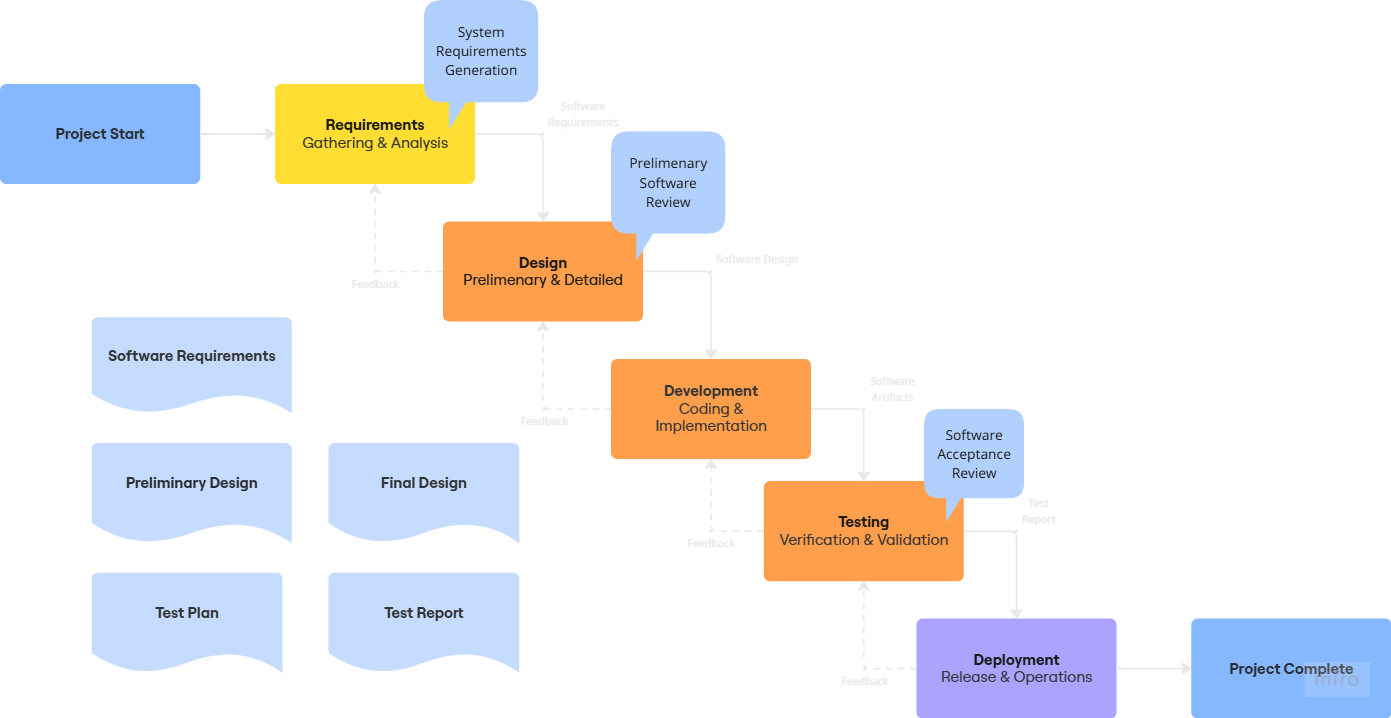
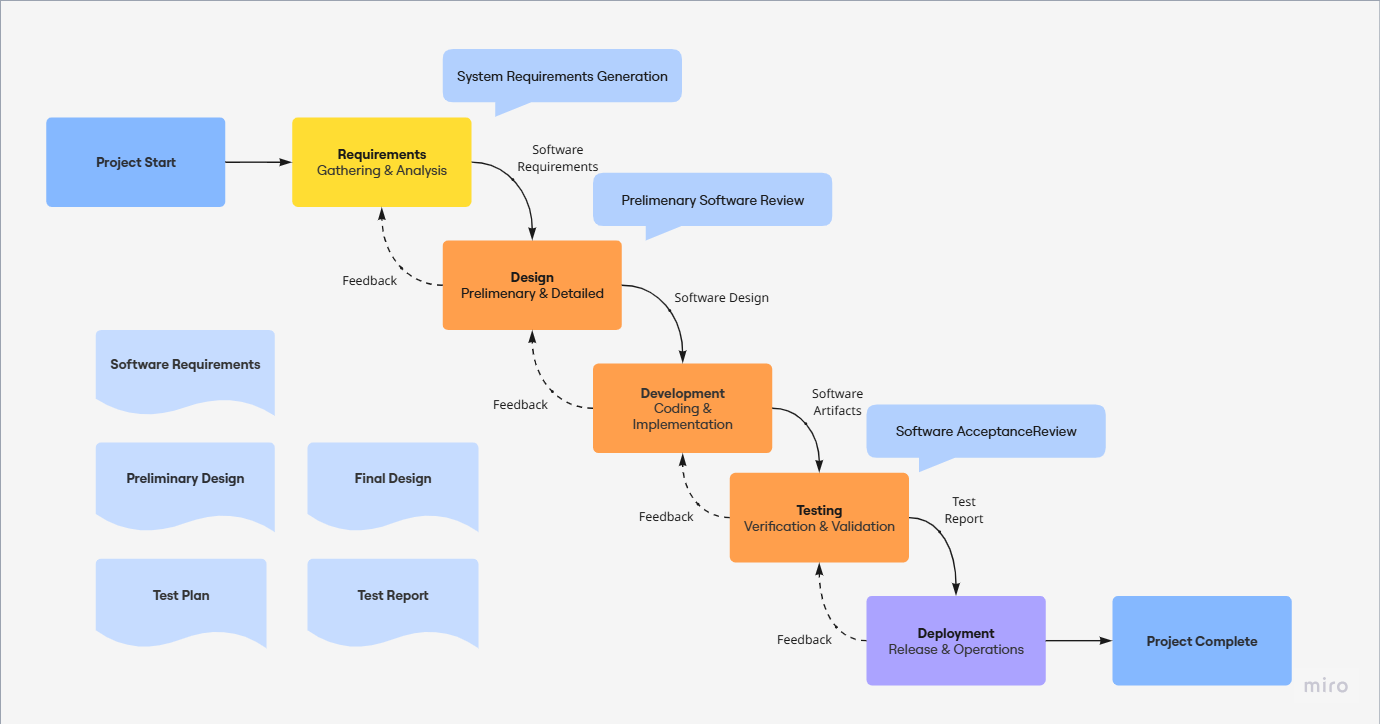
refactor: enhance clarity and detail in Agile methodology article (#7)
* refactor: enhance clarity and detail in Agile methodology article

* feat: add comprehensive comparison of Lean, Waterfall, and Agile methodologies

* fix: update images for Waterfall methodology and value stream map

* feat: add GitHub Actions workflow for testing site

diff --git a/_posts/2025-12-10-agile-methodology.md b/_posts/2025-12-10-agile-methodology.md
@@ -3,87 +3,98 @@ title: "Agile Methodology: Embracing Change Through Iterative Development"
 date: 2025-12-10 00:00:01 +0200
 categories: Project Management
 tags: agile methodology scrum kanban iterative-development agile-manifesto sprints
+image:
+  path: /assets/img/title/title-agile-methodology.png
+  alt: Agile Methodology
+  width: 1200
+  height: 630
 ---
 
 ![Agile Methodology](/assets/img/title/title-agile-methodology.png)
 
-Over time, the Waterfall model became the primary methodology for the majority of software projects. Focus on steps that secure production flow but do not add actual value to the final product brought more complexity than benefits to developers' lives. Huge volumes of documentation helped to keep the process of software development under control, but eventually slowed it down and made any changes in initial requirements everyone's problem.
+Over time, the Waterfall model became the primary methodology for the majority of software projects. Focus on steps that secure production flow and do not add actual value to the final product brought more complexity than benefits to developers' lives. Huge volumes of documentation helped to keep the process under control, but eventually slowed it down and made any changes in priorities or initial requirements everyone's problem.
 
-Agile emerged in the early 2000s as a response to the limitations of traditional methodologies like Waterfall. The new methodology of Agile Software Development was built around four core values:
+Agile emerged in the early 2000s in response to the fact that about one third of all companies' profits came from new products. This fact pushed organizations to focus on delivering new products as quickly as possible, adapt to changing requirements, and adjust priorities dynamically.
 
-- **Individuals and interactions** over processes and tools
-- **Working software** over comprehensive documentation
-- **Customer collaboration** over contract negotiation
-- **Responding to change** over following a plan
+The new methodology of Agile Software Development was built around four core values:
 
-In comparison with previous methodologies, we are not trying to optimize production flow but allow industry experts to adapt quickly and decide what is necessary to deliver working software.
+> - **Individuals and interactions** over processes and tools
+> - **Working software** over comprehensive documentation
+> - **Customer collaboration** over contract negotiation
+> - **Responding to change** over following a plan
+
+In comparison with previous methodologies, it does not aim to optimize production flow or lock in initial requirements. Instead, it assumes that the business environment is constantly changing: project priorities and goals can change on the go, new technologies may reshape the market at any time, and organizations must continuously release innovative solutions. This is achieved by allowing industry experts to lead projects, collaborate directly with customers, decide what is necessary to deliver working software, and re-prioritize work to changing requirements. Self-organizing teams have become the mainstream model, where frequent collaboration and overlapping development phases help maximize results in achieving established goals.
+
+Another distinguishing feature of Agile is the repetition of the same waterfall steps within smaller, time-boxed cycles. Instead of implementing the entire project at once, teams focus on delivering a number of prioritized features. They perform the same steps on a smaller scope of work, release a portion of application functionality, and receive feedback much earlier incorporating new demands and ideas, which increases the value of a solution. Splitting the work into smaller pieces allows teams to adjust priorities to address customer needs each time a new development cycle begins. 
 
 ## Core Principles
 
-Agile expands some of the best practices from both previous methodologies by adapting them to even more rapidly changing customer needs. This results in twelve guiding principles.
+Agile expands on Waterfall and Lean best practices by adapting them to rapidly changing market needs and a cross-functional team model. This expansion results in twelve guiding principles that describe key priorities without prescribing specific practices or rituals for how Agile should be implemented within a team. 
 
-1. **Our highest priority is to satisfy the customer through early and continuous delivery of valuable software.**
-2. **Welcome changing requirements, even late in development. Agile processes harness change for the customer's competitive advantage.**
-3. **Deliver working software frequently, from a couple of weeks to a couple of months, with a preference to the shorter timescale.**
+> 1. **Our highest priority is to satisfy the customer through early and continuous delivery of valuable software.**
+> 2. **Welcome changing requirements, even late in development. Agile processes harness change for the customer's competitive advantage.**
+> 3. **Deliver working software frequently, from a couple of weeks to a couple of months, with a preference to the shorter timescale.**
 
-The major idea is to replace a monolithic solution with a series of short iterative cycles. Smaller release patches of valuable software help us to receive customer feedback faster and on a constant basis. With these principles we focus on what is important to the customer right now. We plan our sprint according to these values and once priorities change we adjust to them in the next sprint. There is no room for a long-running development of a complex project—make it simple, do it fast, and release frequently.
+The main idea here is to replace a monolithic solution with a series of short, iterative cycles. Small, frequent releases of valuable software allow teams to receive customer feedback quickly and continuously. These principles help teams focus on what is most important to the customer at the moment and adapt to competitive business environment in real time. Sprints are planned around these values, and when priorities change, teams adjust in the next sprint. There is no room for long-running development of complex projects. Keep it simple, move fast, and release often.
 
-4. **Business people and developers must work together daily throughout the project.**
-5. **Build projects around motivated individuals. Give them the environment and support they need, and trust them to get the job done.**
-6. **The most efficient and effective method of conveying information to and within a development team is face-to-face conversation.**
-7. **The best architectures, requirements, and designs emerge from self-organizing teams.**
-8. **At regular intervals, the team reflects on how to become more effective, then tunes and adjusts its behavior accordingly.**
+> 4. **Business people and developers must work together daily throughout the project.**
+> 5. **Build projects around motivated individuals. Give them the environment and support they need, and trust them to get the job done.**
+> 6. **The most efficient and effective method of conveying information to and within a development team is face-to-face conversation.**
+> 7. **The best architectures, requirements, and designs emerge from self-organizing teams.**
+> 8. **At regular intervals, the team reflects on how to become more effective, then tunes and adjusts its behavior accordingly.**
 
-It is suggested to bring experts closer to each other, bring different departments to work beyond the scope of neighboring phases, and grow an environment of mutual assistance. The knowledge about the current system is constantly shared and problems are solved right at the moment when they emerge. These principles are one of the reasons why nowadays we work in cross-functional teams alongside Stakeholders, Software Architects, Software Developers, Quality Assurance Engineers, Product Owners, and Release Managers.
+Next, it is suggested to bring experts closer together, encourage collaboration across departments beyond the boundaries of individual phases, and foster an environment of mutual support. Knowledge about the current system is continuously shared, and problems are addressed as soon as they emerge. These principles are one of the reasons why teams today work in cross-functional setups alongside stakeholders, software architects, software developers, quality assurance engineers, product owners, and release managers.
 
-9. **Working software is the primary measure of progress.**
-10. **Agile processes promote sustainable development. The sponsors, developers, and users should be able to maintain a constant pace indefinitely.**
-11. **Continuous attention to technical excellence and good design enhances agility.**
-12. **Simplicity—the art of maximizing the amount of work not done—is essential.**
+> 9. **Working software is the primary measure of progress.**
+> 10. **Agile processes promote sustainable development. The sponsors, developers, and users should be able to maintain a constant pace indefinitely.**
+> 11. **Continuous attention to technical excellence and good design enhances agility.**
+> 12. **Simplicity—the art of maximizing the amount of work not done—is essential.**
 
-Without a doubt, all the efforts from the project team are aimed at delivering the best-class solution right into the hands of the end customer. The progress is measured by stable software operations and customer's satisfaction with constant release of valuable features. Keeping the software in the best shape means there is always room for new features, performance improvements, architectural modernization, and capacity for solving technical debt.
+Finally, all efforts of the project team are focused on delivering a best-in-class solution to the end customer. Progress is measured by stable software operation and customer satisfaction through the continuous release of valuable features. Keeping the software in good shape ensures there is always room for new features, performance improvements, architectural modernization, and the ability to address technical debt.
 
 ## Key Practices
 
-Agile by itself does not provide us with any kinds of practical recommendations on how to build Agile teams and establish production flow. Practices exist in the scope of three major frameworks following the original principles to implement practices embracing these values within teams.
+Agile itself does not provide practical recommendations on how to implement it. Teams and organizations are free to interpret and implement these principles in ways that maximize value within their business domains. In practice, these principles are implemented through three major frameworks inspired by the original Agile values.
 
 ### Extreme Programming (XP)
 
-Extreme Programming focuses on technical excellence and frequent releases with close customer collaboration:
+Extreme Programming (XP) is designed specifically for software development. Its Agile principles is focused on engineering practices such as pair programming, planning poker, continuous integration and small releases in delivering working software. XP emphasizes technical excellence, frequent releases, and close collaboration with experts in your team:
 
-- **Agile Planning**: User stories are short descriptions of a feature that are written in the language of the customer. Agile teams will use these stories as a way to start their planning process. They'll create estimates and decide how many stories they can deliver in each sprint.
+- **Agile Planning**: Teams are responsible for planning their own work using short descriptions of features written in the customer’s language, called User Stories. Agile teams use these stories to start the planning process, prioritize work, and estimate complexity of converting business requirements in code. Estimating the work helps teams decide how many stories they can handle in each sprint and what should be done first.
 
-- **Continuous Integration**: XP teams continuously integrate their code. They do this to make sure that it will work with the whole product. In the past, software development teams might work on some code, and then try to integrate it all at the end.
+- **Continuous Integration**: To ensure that features developed independently work well together, XP teams continuously integrate their code. This helps to confirm that each change works with the product as intended. In the past, development teams often worked on code in isolation for long periods and attempted integration only at the end. Such prolonged separation increases the risk that components will not fit together, leading to more rework and integration issues.
 
-- **Software Refactoring**: An XP team isn't satisfied when the software's finished; they always look to improve the code through constant refactoring. Instead of trying to finish the software all at once, they'll refine it and improve it over time.
+- **Software Refactoring**: As the software development landscape constantly changes, it is assumed that teams must always leave room for improvements like enhancement of software security, solution re-design, minor- and large-scale refactoring, and the adoption of new technologies. An XP team is never truly satisfied when software is considered “finished”; instead, they continuously improve the code through constant refactoring. Rather than trying to complete the software all at once, they refine and enhance it over time.
 
-- **Test-Driven Development (TDD)**: XP teams try to create tests for their software before they actually start development. It helps developers understand how the software will work before they actually start coding. They'll know how to finish before they get started.
+- **Test-Driven Development (TDD)**: It is assumed that developers write tests before starting development. It helps to design system workflows and interfaces by thinking about how the software should behave before writing the code. The practice follows a three-step Red–Green–Refactor cycle: write a failing test for new functionality (Red), write the simplest code needed to make the test pass (Green), clean up the code while keeping all tests passing to improve maintainability (Refactor). This cycle is repeated continuously, with new tests securing user story requirements and features being built incrementally. Existing tests provide strong regression safety as the system evolves.
 
 ### Kanban Framework
 
-Kanban emphasizes visualizing work, limiting work in progress, and managing flow:
+First of all, Kanban is a scheduling system that was used in Lean manufacturing to display team progress on a Kanban Board. The idea behind it is knowing the current team's capacity to do work. Kanban emphasizes visualizing work, limiting work in progress, and managing process flow:
 
-- **Kanban Board**: The Kanban board or Scrum task board is actually a way to organize your work so that your team is focused on delivering the greatest value. The work should flow through the board in a very particular way. The stories at the top should have the highest customer value. The team should work on this top story until it's finished or in the Done column. Once that work is done, then the team can work on the second story from the top.
+- **Kanban Board**: The Kanban board or Scrum task board is actually a way to organize your team to focus on delivering prioritized stories. These stories should flow through the board in a very particular way from backlog passing development and testing right to the Done column. The top of the backlog should have the highest business value so that the development team will work on what is necessary first. Once that work is done the team can pick up the next story from the top.
 
-- **Work in Progress (WIP) Limits**: Agile teams should avoid multitasking and context switching. By limiting WIP, teams focus on completing work before starting new items, which improves flow and reduces cycle time.
+- **Work in Progress (WIP) Limits**: Agile teams should avoid multitasking and context switching. This is archived by limiting WIP for each column in order to highlight too many stories in work-in-progress/code-review/testing stage. Teams focus on completing the ongoing work before starting new tasks, which improves value flow and reduces cycle time for each individual story.
 
-- **Continuous Flow**: Unlike Scrum's time-boxed sprints, Kanban promotes continuous delivery where work flows through the system as capacity becomes available.
+- **Continuous Flow**: Unlike Scrum's time-boxed sprints, Kanban promotes continuous delivery where work flows through the system as capacity becomes available. In addition, backlog priorities and content are constantly rebalanced when project priorities or market needs change. Such flexibility allows teams to maximize business value and welcome changes in requirements even late in development.
 
 ### Scrum Framework
 
-Scrum provides a structured approach with defined roles, events, and artifacts:
+Originally, Scrum is described as an empirical process control framework, meaning it focuses on learning and discovering outcomes during the process rather than planning the entire project upfront. Decisions about goals, priorities, and features are based on observation of market needs and experimentation, rather than detailed upfront planning. Unfortunately, it is often implemented with strict deadlines and long-term planned work lacking flexibility. This approach contradicts its empirical nature, turning Scrum into a prescriptive methodology rather than an adaptive framework.
 
-- **Sprint Planning**: The team plans work for the upcoming sprint (typically 1-4 weeks), selecting items from the product backlog and creating a sprint goal.
+Compared to earlier agile frameworks, Scrum introduces a more structured approach with clearly defined roles, recurring ceremonies, and formalized processes:
 
-- **Daily Stand-ups**: Short daily meetings (15 minutes) where team members synchronize their work and identify any impediments.
+- **Scrum Roles**: To make the development process more predictive and efficient, teams adopt three clearly defined roles that maintain focus on business priorities: the Product Owner represents the business side and grooms the backlog through stakeholder communication, the Scrum Master facilitates Scrum practices and helps the team monitor and improve their workflow, and the Development Team builds the product. These roles can be filled by existing team members or invited specialists. The Scrum Master role may rotate among team members every sprint to involve everyone in process facilitation.
 
-- **Sprint Review**: At the end of each sprint, the team demonstrates completed work to stakeholders and gathers feedback.
+- **Product Backlog**: To remain responsive to changing business needs, teams maintain a prioritized list of features and requirements. The Product Owner manages this backlog and handles stakeholder communication, allowing developers to focus their time and energy on writing software rather than navigating business discussions.
 
-- **Sprint Retrospective**: The team reflects on their process and identifies improvements for the next sprint.
+- **Sprint Planning**: The team defines a clear sprint goals, selects backlog items that meet their owna and business expectations, and breaks them into actionable tasks. It also aligns on scope based on capacity, dependencies, and Definition of Done to reduce mid-sprint surprises.
 
-- **Product Backlog**: A prioritized list of features and requirements maintained by the Product Owner.
+- **Daily Stand-ups**: Short daily meetings (about 15 minutes) where team members synchronize their work, surface blockers, and adjust the sprint plans. The focus is on progress toward the sprint goal and quick coordination, not detailed problem-solving.
 
-- **Defined Roles**: Product Owner (defines what to build), Scrum Master (facilitates the process), and Development Team (builds the product).
+- **Sprint Review**: At the end of each sprint, the team demonstrates completed work to stakeholders, validates it against the sprint goals, and gathers feedback. This feedback informs backlog refinement and priority adjustments for upcoming sprints.
+
+- **Sprint Retrospective**: The team reflects on their process, identifies what worked and what did not, and commits to concrete improvements for the next sprint. It reinforces continuous improvement and team ownership of the workflow.
 
 ## Strengths and Benefits
 
@@ -95,7 +106,7 @@ Agile's iterative approach offers several key advantages:
 
 - **Faster Releases**: Enables your team to develop and release iterative solutions to the market rapidly. No need to wait for a complete solution when you can beat your competitors by being the first who delivered the most desirable feature faster.
 
-- **Identify Issues Early**: Testing early and often enables your team to identify issues and resolve those issues before switching your context to the next iteration. The earlier the team will identify issues, the less rework is required in future.
+- **Identify Issues Early**: Testing early and often enables your team to identify issues and resolve those issues before switching your context to the next iteration. The earlier the team will identify issues, the less rework is required in the future.
 
 - **Team Involvement**: Team, involved in business needs and collaborating with business people, may recommend improvements that would bring even greater value unseen from the customer's perspective.
 
@@ -103,7 +114,7 @@ Agile's iterative approach offers several key advantages:
 
 While Agile offers many benefits, it also presents several challenges that teams should be aware of:
 
-- **Lack of Predictability**: Inability to predict the overall development costs may result in underbudgeting teams and departments. Also, unexpectedly changing requirements might bring confusion and miscommunication when not properly communicated within teams.
+- **Lack of Predictability**: Inability to predict the overall development costs may result in under-budgeting teams and departments. Also, unexpectedly changing requirements might bring confusion and miscommunication when not properly communicated within teams.
 
 - **Lack of Documentation**: Insufficient documentation complicates maintenance, onboarding, and cross-team knowledge sharing. Documentation should not fade into oblivion; Agile does not exclude documentation—teams must plan and refresh it so artifacts remain accurate and up to date.
 

diff --git a/_posts/2026-01-20-lean-waterfall-agile-comparison.md b/_posts/2026-01-20-lean-waterfall-agile-comparison.md
@@ -3,9 +3,14 @@ title: "Lean vs Waterfall vs Agile: A Comprehensive Comparison of Software Devel
 date: 2026-01-20 00:00:01 +0200
 categories: Project Management
 tags: lean waterfall agile methodology sdlc project-management software-development
+image:
+  path: /assets/img/title/title-agile-methodology.png
+  alt: Software Development Methodologies Comparison
+  width: 1200
+  height: 630
 ---
 
-![Software Development Methodologies Comparison](/assets/img/title/title-lean-waterfall-agile-comparison.png)
+![Software Development Methodologies Comparison](/assets/img/title/title-agile-methodology.png)
 
 In the ever-evolving landscape of software development, choosing the right methodology can make or break a project. Three prominent approaches—Lean, Waterfall, and Agile—each offer distinct philosophies and practices, impacting how teams deliver value, respond to change, and optimize their work. This post explores the origins, core principles, strengths, and challenges of these methodologies to help you decide which is best for your next project.
 

diff --git a/_posts/2025-10-10-lean-methodology.md b/_posts/2025-10-10-lean-methodology.md
@@ -3,9 +3,10 @@ title: "Lean Methodology: Maximizing Customer Value While Minimizing Waste"
 date: 2025-10-10 00:00:01 +0200
 categories: Project_Management
 tags: lean methodology toyota value-stream-mapping waste-reduction continuous-improvement
+image:
+  path: /assets/img/title/value-stream-map.png
+  alt: Lean Methodology
 ---
-
-![Lean Methodology](/assets/img/title/value-stream-map.png)
 
 The main idea behind Lean methodology is to maximize customer value while minimizing waste, ensuring that every step in the production or development process contributes meaningfully to the final product. Before Lean, manufacturing was dominated by Henry Ford's flow production system. Ford's approach revolutionized mass production with lined-up fabrication, but it lacked flexibility and resulted in a limited variety of products – making it difficult to rapidly adapt to changing customer needs.
 

diff --git a/_posts/2025-11-10-waterfall-methodology.md b/_posts/2025-11-10-waterfall-methodology.md
@@ -3,9 +3,10 @@ title: "Waterfall Methodology: A Phase-Gated Approach to Software Development"
 date: 2025-11-10 00:00:01 +0200
 categories: Project Management
 tags: waterfall methodology royce sdlc sequential-development documentation
+image:
+  path: /assets/img/title/title-waterfall-methodology.png
+  alt: Waterfall Methodology
 ---
-
-![Waterfall Methodology](/assets/img/title/title-waterfall-methodology.png)
 
 Waterfall is one of the earliest formalized approaches to software development. Often linked to Winston W. Royce's 1970 paper "MANAGING THE DEVELOPMENT OF LARGE SOFTWARE SYSTEMS", Waterfall draws from traditional engineering disciplines where predictability, documentation, and phase gates mitigate risk in large, capital‑intensive initiatives (defense, aerospace, infrastructure) with clear goals and clear timelines.
 
